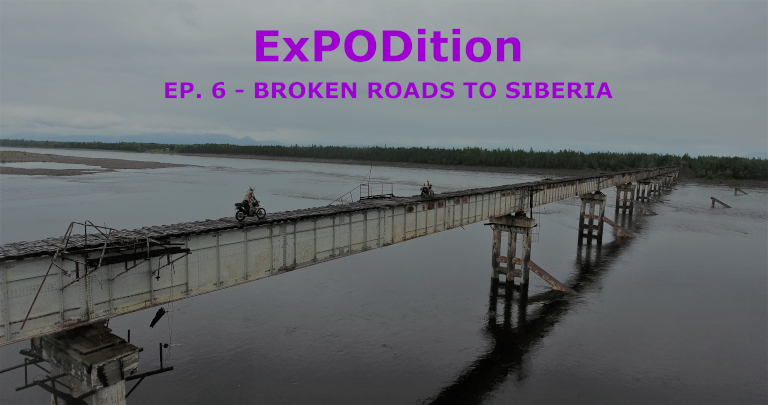
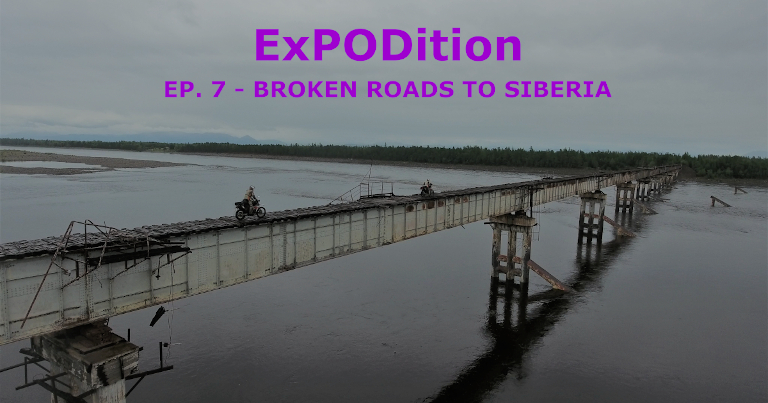
fixing ep number in image

diff --git a/_posts/2021-01-15-expodition-episode-7-broken-roads-to-siberia.md b/_posts/2021-01-15-expodition-episode-7-broken-roads-to-siberia.md
@@ -1,7 +1,7 @@
 ---
 date: 2021-01-15
 title: "ExPODition Ep.7 - Broken Roads to Siberia"
-description: "A 10,000 km, one month long journey through Russian wilderness."
+description: "A 10,000 km, one month long journey through the Russian wilderness."
 categories: expodition
 tags: [David Greenwood, Trek View, Siberia, BAM road, Jyri Koski, Tuukka Josefsson, Russia, Mongolia, Altai mountains]
 author_staff_member: dgreenwood
